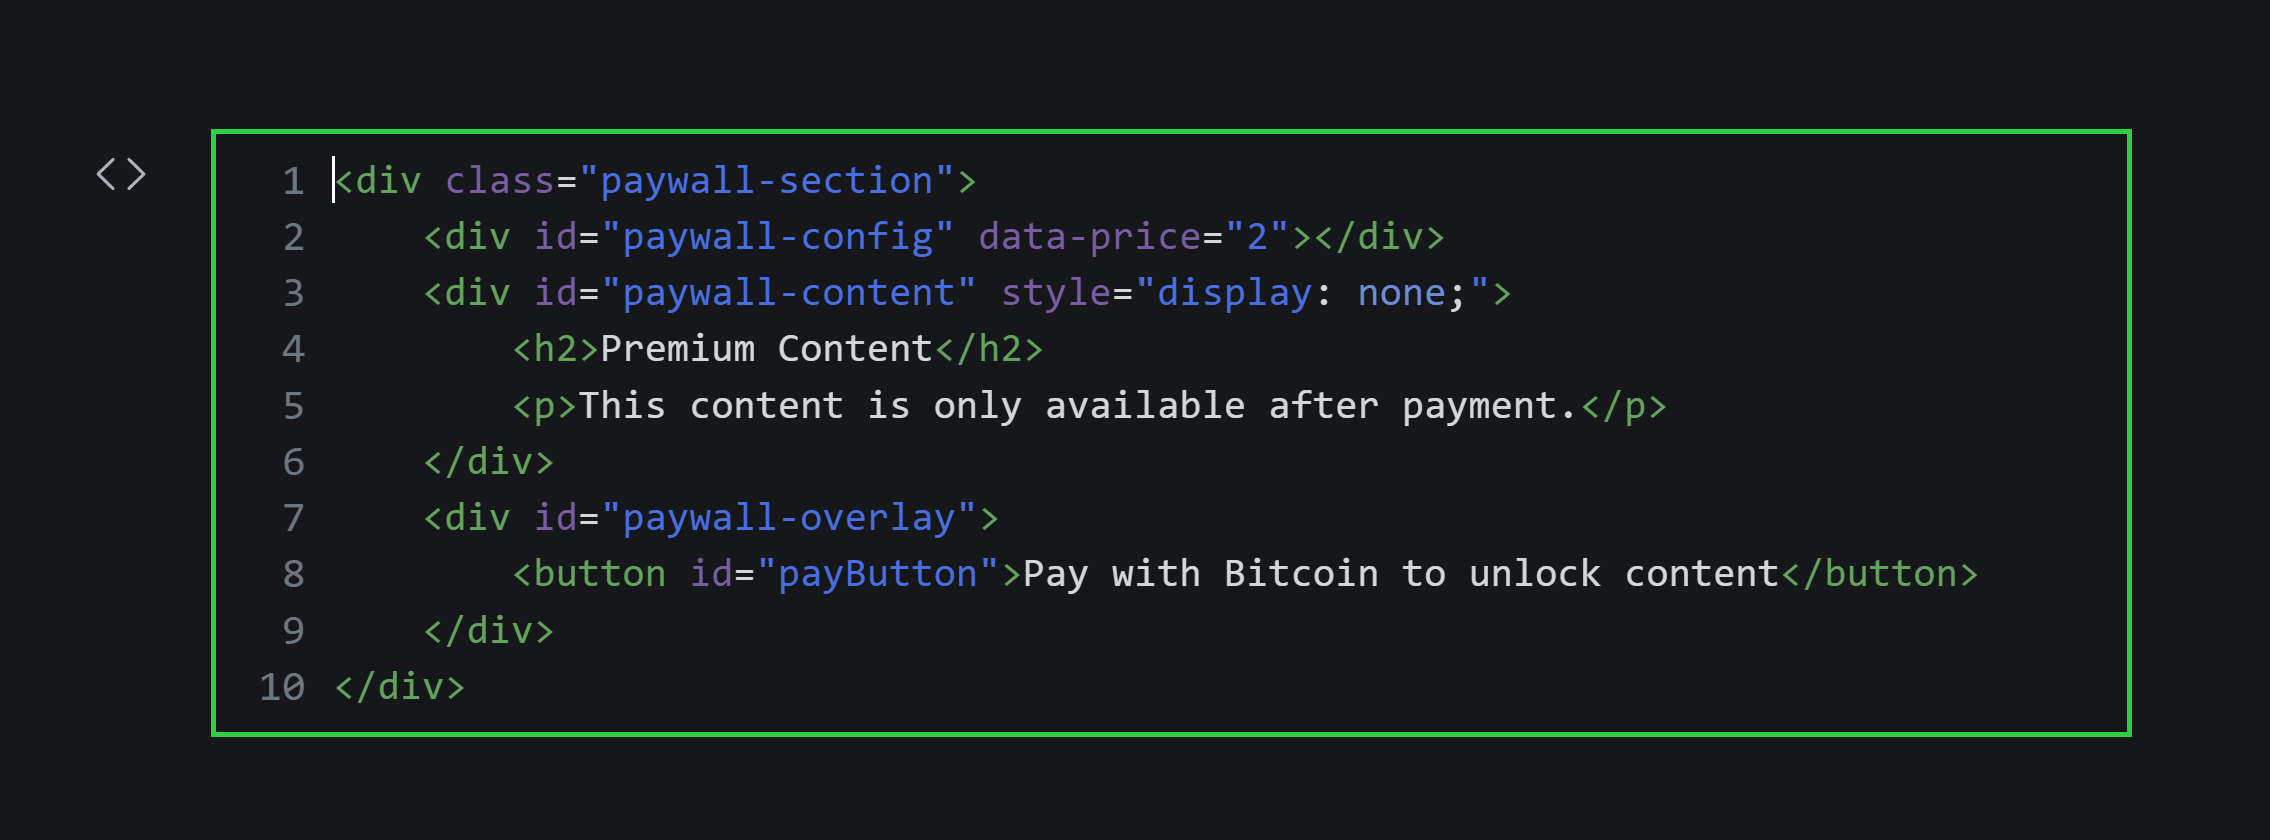
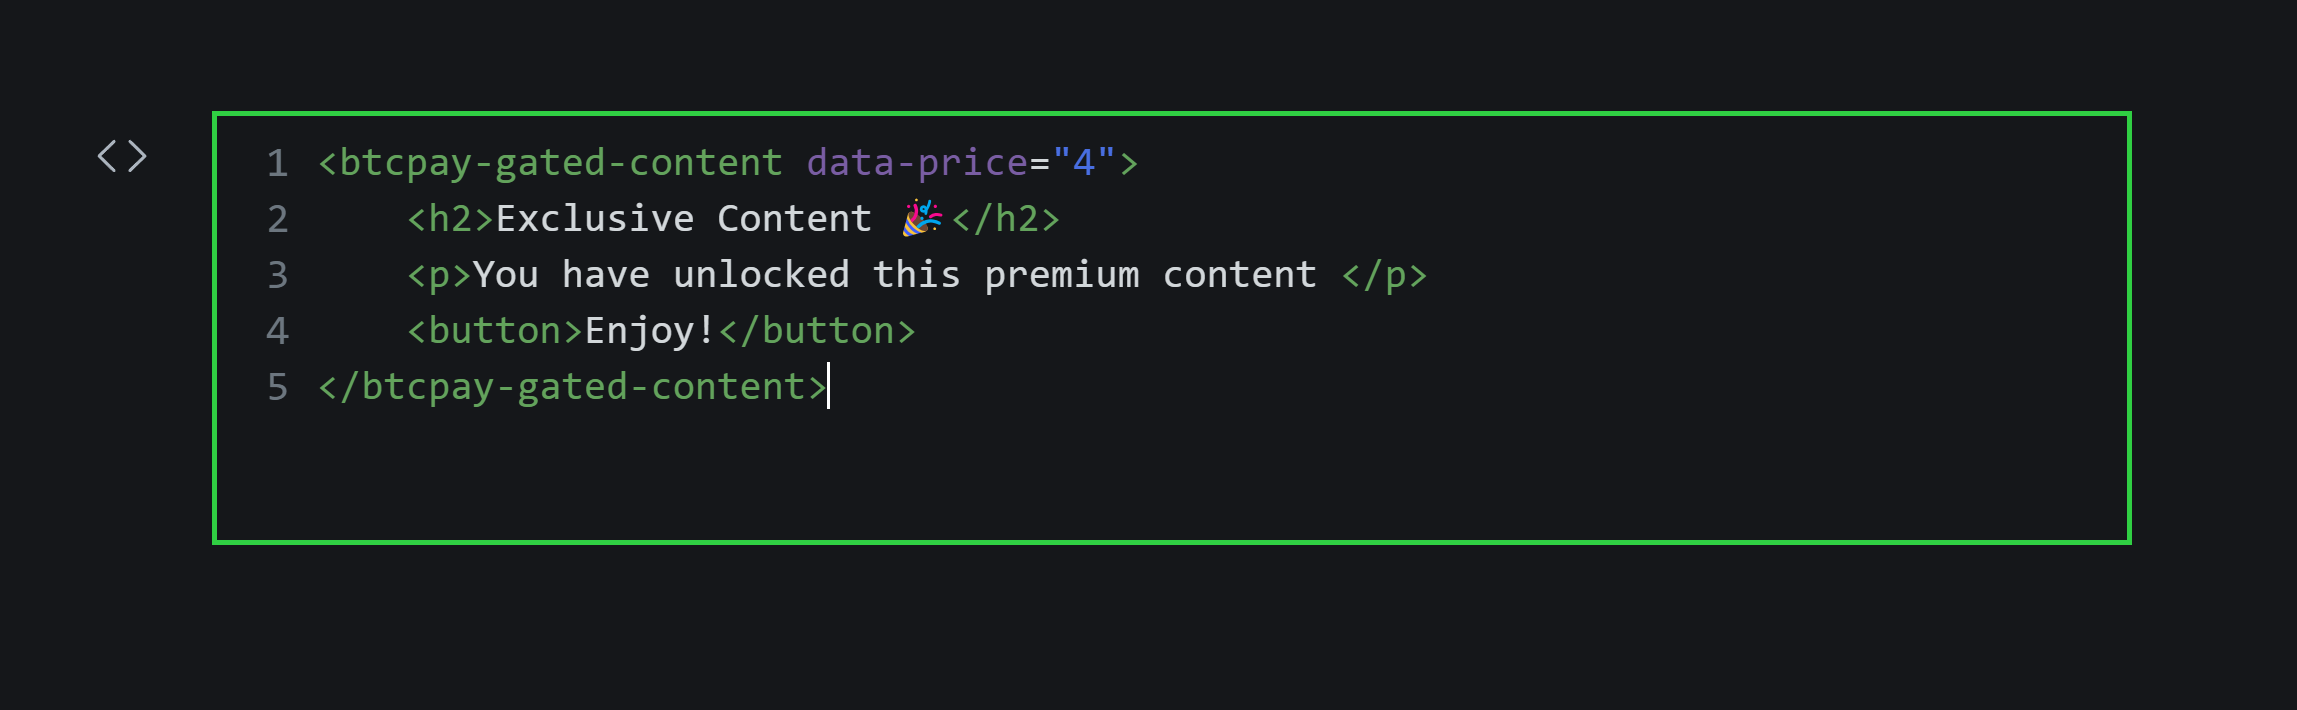
update payroll flow

diff --git a/Plugins/BTCPayServer.Plugins.GhostPlugin/Resources/js/btcpay_paywall_ghost.js b/Plugins/BTCPayServer.Plugins.GhostPlugin/Resources/js/btcpay_paywall_ghost.js
@@ -1,4 +1,182 @@
-document.addEventListener("DOMContentLoaded", function () {
+class BTCPayGatedContent extends HTMLElement {
+    constructor() {
+        super();
+        this.attachShadow({ mode: "open" });
+        this.uniqueId = this.generateUniqueId();
+        const container = document.createElement("div");
+        container.innerHTML = `
+      <style>
+        #content { display: none; }
+        #payButton {
+          background: green;
+          color: white;
+          padding: 10px 15px;
+          border: none;
+          cursor: pointer;
+          font-size: 16px;
+          border-radius: 5px;
+        }
+      </style>
+
+      <div id="paySection">
+        <p>Unlock this premium content content</p>
+        <button id="payButton">Unlock with Bitcoin</button>
+      </div>
+      <div id="content">
+        <slot></slot>
+      </div>
+    `;
+
+        this.shadowRoot.appendChild(container);
+
+        if (localStorage.getItem("paywall_unlocked_" + this.uniqueId) === "true") {
+            this.unlockContent();
+        }
+
+        container.querySelector("#payButton").addEventListener("click", (event) => {
+            event.preventDefault();
+            event.target.disabled = true;
+            event.target.textContent = "Loading...";
+
+            const price = this.getAttribute("data-price");
+            this.handleBitcoinPayment(price, event.target);
+        });
+    }
+
+    generateUniqueId() {
+        const pageUrl = window.location.pathname;
+        const allPaywalls = document.querySelectorAll('btcpay-gated-content');
+        let index = -1;
+        for (let i = 0; i < allPaywalls.length; i++) {
+            if (allPaywalls[i] === this) {
+                index = i;
+                break;
+            }
+        }
+
+        if (index === -1) {
+            let node = this;
+            let path = [];
+
+            while (node && node.parentNode) {
+                let siblings = Array.from(node.parentNode.children);
+                path.unshift(siblings.indexOf(node));
+                node = node.parentNode;
+            }
+
+            const pathString = path.join('_');
+            return `pw_${pageUrl.replace(/\W+/g, '_')}_path_${pathString}`;
+        }
+        return `pw_${pageUrl.replace(/\W+/g, '_')}_${index}`;
+    }
+
+    getDomPath() {
+        let element = this;
+        let path = '';
+        while (element.parentNode) {
+            const siblings = Array.from(element.parentNode.children);
+            const index = siblings.indexOf(element);
+            const tag = element.tagName.toLowerCase();
+            path = `/${tag}[${index}]${path}`;
+            element = element.parentNode;
+
+            if (path.split('/').length > 6) break;
+        }
+        return path;
+    }
+
+    paymentCompleted() {
+        localStorage.setItem("paywall_unlocked_" + this.uniqueId, "true");
+        this.unlockContent();
+    }
+
+    unlockContent() {
+        this.shadowRoot.querySelector("#paySection").style.display = "none";
+        this.shadowRoot.querySelector("#content").style.display = "block";
+    }
+
+    handleBitcoinPayment(amount, button) {
+        const url = BTCPAYSERVER_URL + "/plugins/" + BTCPAYSERVER_STORE_ID + "/ghost/api/paywall/create-invoice?amount=" + amount;
+        fetch(url, {
+            method: "GET",
+            headers: { "Content-Type": "application/json" }
+        })
+            .then(response => response.json())
+            .then(data => {
+                console.log("Invoice created:", data);
+                if (data.id) {
+                    this.showBTCPayModal(data);
+                }
+                else {
+                    button.disabled = false;
+                    button.textContent = "Unlock with Bitcoin";
+                    alert("Error: Failed to generate invoice. Please contact admin");
+                }
+            })
+            .catch(error => {
+                button.disabled = false;
+                button.textContent = "Unlock with Bitcoin";
+                console.error("Payment initiation failed. Error:", error);
+                alert("Error: Payment initiation failed. Please try again.");
+            });
+    }
+
+
+    showBTCPayModal = function (data) {
+        console.log('Triggered showBTCPayModal()');
+        if (data.id == undefined) {
+            console.error('No invoice id provided, aborting.');
+        }
+        window.btcpay.setApiUrlPrefix(BTCPAYSERVER_URL);
+        window.btcpay.showInvoice(data.id);
+
+        let invoice_paid = false;
+        const self = this;
+        window.btcpay.onModalReceiveMessage((event) => {
+            if (isObject(event.data)) {
+                if (event.data.status) {
+                    switch (event.data.status.toLowerCase()) {
+                        case 'complete':
+                        case 'paid':
+                        case 'confirmed':
+                        case 'processing':
+                        case 'settled':
+                            invoice_paid = true;
+                            console.log('Invoice paid.');
+                            self.paymentCompleted();
+                            break;
+                        case 'expired':
+                            window.btcpay.hideFrame();
+                            console.error('Invoice expired.');
+                            break;
+                        case 'invalid':
+                            window.btcpay.hideFrame();
+                            console.error('Invalid invoice.');
+                            break;
+                        default:
+                            console.error('Unknown status: ' + event.data.status);
+                    }
+                }
+            } else {
+                if (event.data === 'close') {
+                    if (invoice_paid === true) {
+                        self.paymentCompleted();
+                        console.log('Invoice paid.');
+                    }
+                    console.log('Modal closed.')
+                }
+            }
+        });
+        const isObject = obj => {
+            return Object.prototype.toString.call(obj) === '[object Object]'
+        }
+    };
+}
+
+customElements.define("btcpay-gated-content", BTCPayGatedContent);
+
+
+document.addEventListener("DOMContentLoaded", function () {
 
     var extLinks = document.querySelectorAll('a[href*="://"]');
     for (var i = 0; i < extLinks.length; i++) {
@@ -9,127 +187,7 @@
 
     loadModalScript();
     console.log("Script Loaded");
-
-    document.querySelectorAll('#paywall-overlay').forEach((overlay, index) => {
-        const container = overlay.closest('.paywall-section');
-        if (!container) return;
-
-        const paywallConfig = container.querySelector('#paywall-config');
-        if (!paywallConfig || !paywallConfig.dataset.price) return;
-
-        const price = paywallConfig.getAttribute("data-price");
-        const uniqueId = generateUniqueId(index);
-
-        if (localStorage.getItem('paywall_unlocked_' + uniqueId) === 'true') {
-            console.log(`Content ${uniqueId} is already unlocked`);
-            unlockContent(uniqueId);
-        }
-
-        overlay.addEventListener("click", function (event) {
-            if (event.target.id === "payButton") {
-                event.preventDefault();
-                event.target.disabled = true;
-                event.target.textContent = "Loading...";
-                handleBitcoinPayment(price, event.target, uniqueId);
-            }
-        });
-    });
 });
-
-
-function generateUniqueId(index) {
-    const urlPath = window.location.pathname;
-    return btoa(urlPath + "_paywall_" + index);
-}
-
-function unlockContent(uniqueId) {
-    document.querySelectorAll('#paywall-overlay').forEach((overlay, index) => {
-        const generatedId = generateUniqueId(index);
-        if (generatedId === uniqueId) {
-            overlay.style.display = 'none';
-            overlay.previousElementSibling.style.display = 'block';
-        }
-    });
-    localStorage.setItem('paywall_unlocked_' + uniqueId, 'true');
-}
-
-function handleBitcoinPayment(amount, button, uniqueId) {
-    const url = BTCPAYSERVER_URL + "/plugins/" + BTCPAYSERVER_STORE_ID + "/ghost/api/paywall/create-invoice?amount=" + amount;
-    fetch(url, {
-        method: "GET",
-        headers: { "Content-Type": "application/json" }
-    })
-        .then(response => response.json())
-        .then(data => {
-            console.log("Invoice created:", data);
-            if (data.id) {
-                showBTCPayModal(data, uniqueId);
-            }
-            else {
-                button.disabled = false;
-                button.textContent = "Unlock with Bitcoin";
-                alert("Error: Failed to generate invoice. Please contact admin");
-            }
-        })
-        .catch(error => {
-            button.disabled = false;
-            button.textContent = "Unlock with Bitcoin";
-            console.error("Payment initiation failed. Error:", error);
-            alert("Error: Payment initiation failed. Please try again.");
-        });
-}
-
-
-
-const showBTCPayModal = function (data, uniqueId) {
-    console.log('Triggered showBTCPayModal()');
-
-    if (data.id == undefined) {
-        console.error('No invoice id provided, aborting.');
-    }
-    window.btcpay.setApiUrlPrefix(BTCPAYSERVER_URL);
-    window.btcpay.showInvoice(data.id);
-
-    let invoice_paid = false;
-    window.btcpay.onModalReceiveMessage(function (event) {
-        if (isObject(event.data)) {
-            if (event.data.status) {
-                switch (event.data.status.toLowerCase()) {
-                    case 'complete':
-                    case 'paid':
-                    case 'confirmed':
-                    case 'processing':
-                    case 'settled':
-                        invoice_paid = true;
-                        console.log('Invoice paid.');
-                        unlockContent(uniqueId);
-                        break;
-                    case 'expired':
-                        window.btcpay.hideFrame();
-                        console.error('Invoice expired.');
-                        break;
-                    case 'invalid':
-                        window.btcpay.hideFrame();
-                        console.error('Invalid invoice.');
-                        break;
-                    default:
-                        console.error('Unknown status: ' + event.data.status);
-                }
-            }
-        } else {
-            if (event.data === 'close') {
-                if (invoice_paid === true) {
-                    unlockContent(uniqueId);
-                    console.log('Invoice paid.');
-                }
-                console.log('Modal closed.')
-            }
-        }
-    });
-    const isObject = obj => {
-        return Object.prototype.toString.call(obj) === '[object Object]'
-    }
-};
 
 
 const loadModalScript = () => {

diff --git a/Plugins/BTCPayServer.Plugins.GhostPlugin/README.md b/Plugins/BTCPayServer.Plugins.GhostPlugin/README.md
@@ -243,34 +243,31 @@ Please note that this is not fully protecting your content but just hiding it un
 
 4. Now that you have the script injected, head over to the post/page editor where you want to include your paywall. Click on the plus icon to add an item, select HTML, and in the input field paste the following code
    ![BTCPay Server Ghost img 38](./img/Ghost/Add_Html_To_Post.png)
+
 ```
-    <div class="paywall-section">
-        <div id="paywall-config" data-price="2"></div>
-        <div id="paywall-content" style="display: none;">
-            <h2>Premium Content</h2>
-            <p>This content is only available after payment.</p>
-        </div>
-        <div id="paywall-overlay">
-            <button id="payButton">Pay with Bitcoin to unlock content</button>
-        </div>
-    </div>
+    <btcpay-gated-content data-price="0">
+        <h2>Exclusive Content 🎉</h2>
+        <p>You have unlocked this premium content </p>
+        <button>Enjoy!</button>
+    </btcpay-gated-content>
 ```
 
-These are HTML tags. For customization, you can replace the button text with whatever you want the button text to be i.e replace `Pay with Bitcoin to unlock content` with `Any text you choose`
+These is a custom HTML tag. You can customize your premium content using HTML tags, just ensure it is wrapped inside the custom custom tag (<btcpay-gated-content data-price="4"></btcpay-gated-content>)
 
-You can also replace the h2 tag with any header/description text that you want to give to your premium item i.e replace `Premium Content` with `Any description/header of choice`
-
-Replace the p tag with the actual premium item which can be a link to download a book, or a text or anything at all i.e replace `This content is only available after payment.` with `My hidden item`
-
-Finally replace the `data-price` value from 2 to whatever amount you want to sell your content for i.e. replace the 2 in `data-price="2"` with any amount.
+Finally replace the `data-price` value from 0 to whatever amount you want to sell your content for i.e. replace the 0 in `data-price="2"` with any amount.
 
 P.S.: The currency associated with the amount is the default currency set for your BTCPay Server store
 
-P.P.S: Do not change the `id` of the tags i.e `paywall-config`, `paywall-content`, `paywall-overlay`. These are the tags that the script would be looking for.
+P.S: Also note that as for now, you can only customize one paywall per page.
 
 If you are a technical person and good with styling and customization, further customization can be done to the elements. 
 
 ![BTCPay Server Ghost img 39](./img/Ghost/Html_Content.png)
+
+
+![BTCPay Server Ghost img 39a](./img/Ghost/Html_Content1.png)
+
+In your editor the premium content isn't hidden, allowing full display of your page. Not to worry as it is hidden in the post/page URL.
 
 
 Once done, save your page/post, open the url to the post and proceed to make a payment.
